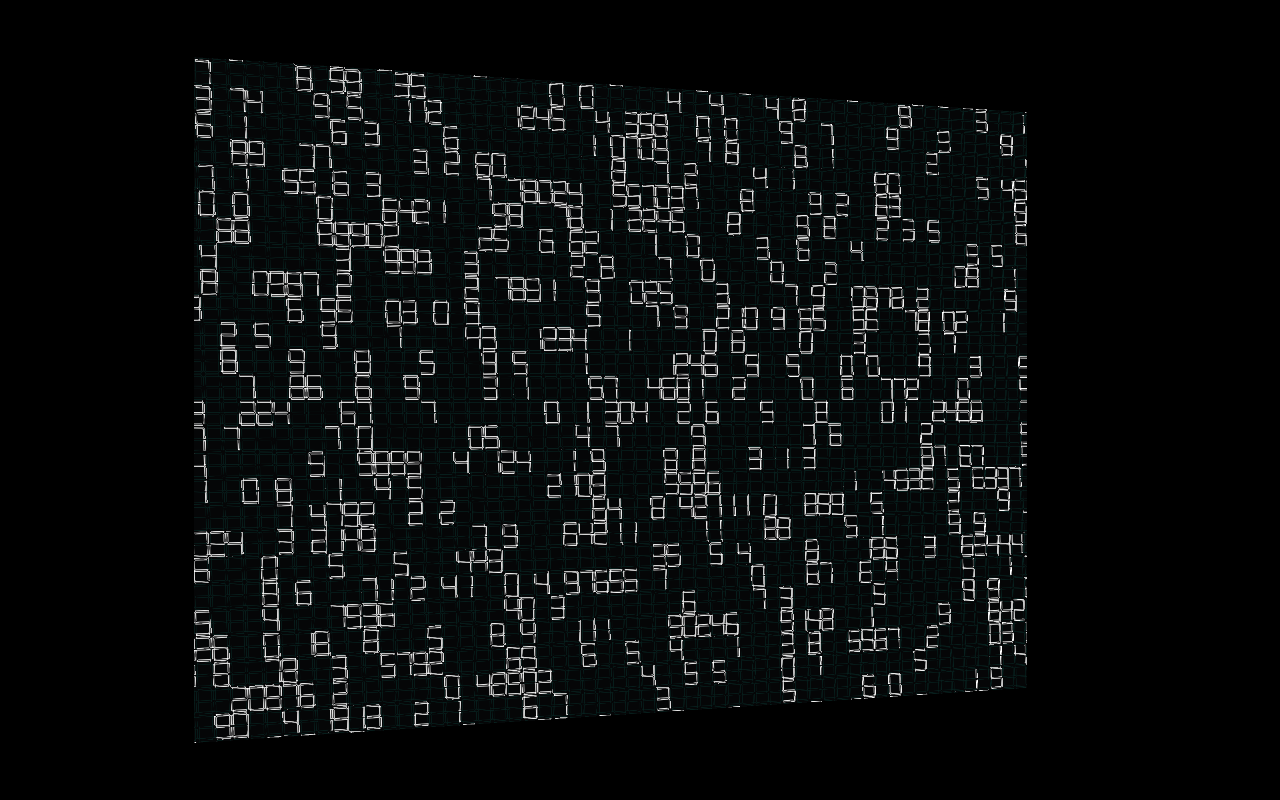
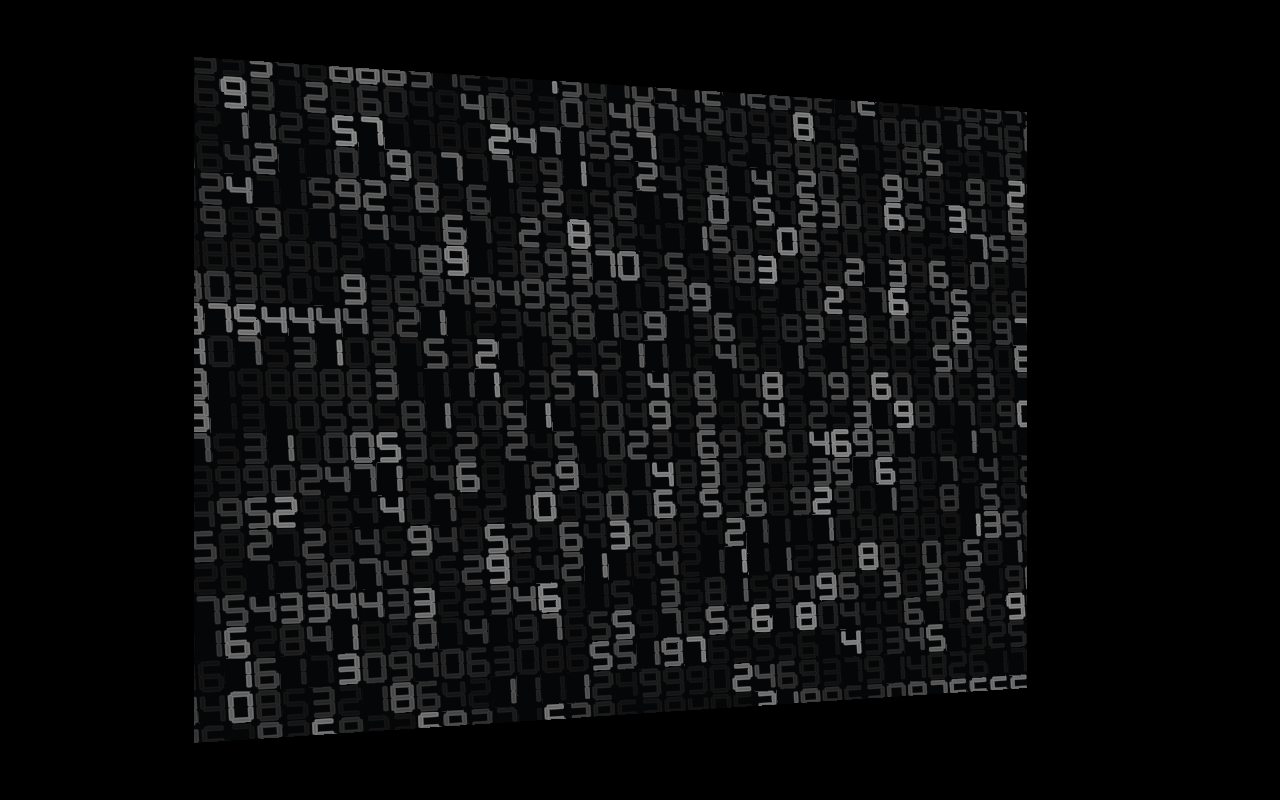
Correct the digit grid against measurements of the reference photograph
The reference image arrived after phase 0 was built, and four of the PRD's prose
claims about it do not survive measurement. reference/MEASUREMENTS.md records the
numbers and the method.

- Cell aspect is 1:1.22, not 1:1.6. The PRD's figure comes from reading the
  strongest vertical autocorrelation peak, at 31 px, as the row pitch; it is
  actually the segment a to segment d self-match inside one glyph. The real
  pitch is 37 px by 45 px, recovered from the first-ring peaks of the 2D
  autocorrelation and confirmed by overlaying the lattice on a 5x4 cell crop.
- There are no ghost 8s. Only 0.2% of cells are empty, so every cell holds an
  ordinary digit and the faint ones are just dim. Density goes 0.35 -> 1.0 and
  ghost intensity defaults to 0, the code kept behind the parameter.
- Segments are solid bars, not outlined strokes. A luminance cut across a glyph
  reads bright, then 18 px of near-black, then bright, and a cut along a
  horizontal segment is flat-topped.
- Depth softening would move away from the reference, not towards it: edge
  sharpness is flat at 0.19 across all four brightness quartiles.

Two fixes to the glyph construction itself. Segment bars now run to the centre
lines they meet, so the union reads as one continuous ribbon; stopping them
tangent left a notch once the ends were rounded. And the glyph fill fractions are
outer extents, as measured, so the half-thickness comes off both half-extents.
[…]

Changed region(s): [[0.125, 0.0625, 0.8125, 0.9375]]

diff --git a/src/ui/gui.ts b/src/ui/gui.ts
@@ -17,7 +17,8 @@ export function createGui(params: Params, hooks: GuiHooks): Pane {
   const grid = pane.addFolder({ title: 'Digit grid' });
   grid.addBinding(params, 'gridScale', { label: 'grid scale', min: 2, max: 80, step: 0.5 });
   grid.addBinding(params, 'cellAspect', { label: 'cell aspect', min: 1, max: 2.5, step: 0.01 });
-  grid.addBinding(params, 'glyphFill', { label: 'glyph fill', min: 0.5, max: 1, step: 0.01 });
+  grid.addBinding(params, 'glyphFillX', { label: 'glyph fill X', min: 0.4, max: 1, step: 0.01 });
+  grid.addBinding(params, 'glyphFillY', { label: 'glyph fill Y', min: 0.4, max: 1, step: 0.01 });
   grid.addBinding(params, 'density', { label: 'lit density', min: 0, max: 1, step: 0.01 });
   grid.addBinding(params, 'skew', { label: 'skew', min: -0.2, max: 0.2, step: 0.005 });
   grid.addBinding(params, 'warpAmount', { label: 'warp', min: 0, max: 0.05, step: 0.001 });
@@ -25,11 +26,14 @@ export function createGui(params: Params, hooks: GuiHooks): Pane {
   grid.addBinding(params, 'digitSpeed', { label: 'digit speed', min: 0, max: 4, step: 0.05 });
 
   const glyph = pane.addFolder({ title: 'Segments' });
-  glyph.addBinding(params, 'segThickness', { label: 'thickness', min: 0.01, max: 0.15, step: 0.002 });
-  glyph.addBinding(params, 'strokeWidth', { label: 'stroke width', min: 0.002, max: 0.05, step: 0.001 });
-  glyph.addBinding(params, 'segGap', { label: 'mitre gap', min: 0, max: 0.06, step: 0.002 });
-  glyph.addBinding(params, 'segRounding', { label: 'rounding', min: 0, max: 0.05, step: 0.002 });
-  glyph.addBinding(params, 'innerFill', { label: 'inner fill', min: 0, max: 0.4, step: 0.005 });
+  glyph.addBinding(params, 'segThickness', { label: 'thickness', min: 0.05, max: 0.4, step: 0.005 });
+  glyph.addBinding(params, 'segGap', { label: 'mitre gap', min: 0, max: 1, step: 0.02 });
+  glyph.addBinding(params, 'segRounding', { label: 'rounding', min: 0, max: 1, step: 0.02 });
+  glyph.addBinding(params, 'rimWidth', { label: 'rim width', min: 0, max: 1.5, step: 0.05 });
+  glyph.addBinding(params, 'rimIntensity', { label: 'rim boost', min: 0, max: 2, step: 0.05 });
+  glyph.addBinding(params, 'cellLevelMin', { label: 'cell level min', min: 0, max: 1, step: 0.01 });
+  glyph.addBinding(params, 'cellLevelMax', { label: 'cell level max', min: 0, max: 1, step: 0.01 });
+  glyph.addBinding(params, 'cellLevelBias', { label: 'cell level bias', min: 0.5, max: 5, step: 0.1 });
   glyph.addBinding(params, 'ghostIntensity', { label: 'ghost', min: 0, max: 0.5, step: 0.005 });
   glyph.addBinding(params, 'ghostColor', { label: 'ghost colour' });
   glyph.addBinding(params, 'mediumColor', { label: 'medium' });

diff --git a/src/material/ObsidianDigitsMaterial.ts b/src/material/ObsidianDigitsMaterial.ts
@@ -18,18 +18,22 @@ export class ObsidianDigitsMaterial extends THREE.ShaderMaterial {
         uTilt: { value: new THREE.Vector2() },
         uViewMode: { value: 0 },
 
-        uGridScale: { value: 22 },
-        uCellAspect: { value: 1.6 },
-        uGlyphFill: { value: 0.88 },
-        uDensity: { value: 0.35 },
-        uGhostIntensity: { value: 0.06 },
-        uGhostColor: { value: new THREE.Color('#0d3d3a') },
-        uStrokeWidth: { value: 0.012 },
-        uSegThickness: { value: 0.05 },
-        uSegGap: { value: 0.012 },
-        uSegRounding: { value: 0.02 },
-        uInnerFill: { value: 0.06 },
-        uSkew: { value: 0.03 },
+        uGridScale: { value: 13.5 },
+        uCellAspect: { value: 1.22 },
+        uGlyphFillX: { value: 0.89 },
+        uGlyphFillY: { value: 0.96 },
+        uDensity: { value: 1 },
+        uGhostIntensity: { value: 0 },
+        uGhostColor: { value: new THREE.Color('#12514b') },
+        uSegThickness: { value: 0.22 },
+        uSegGap: { value: 0 },
+        uSegRounding: { value: 0.7 },
+        uRimWidth: { value: 0.55 },
+        uRimIntensity: { value: 0.5 },
+        uCellLevelMin: { value: 0.08 },
+        uCellLevelMax: { value: 0.58 },
+        uCellLevelBias: { value: 2.6 },
+        uSkew: { value: 0.054 },
         uWarpAmount: { value: 0.004 },
         uWarpScale: { value: 0.6 },
         uDigitSpeed: { value: 0 },
@@ -47,15 +51,19 @@ export class ObsidianDigitsMaterial extends THREE.ShaderMaterial {
 
     u.uGridScale.value = params.gridScale;
     u.uCellAspect.value = params.cellAspect;
-    u.uGlyphFill.value = params.glyphFill;
+    u.uGlyphFillX.value = params.glyphFillX;
+    u.uGlyphFillY.value = params.glyphFillY;
     u.uDensity.value = params.density;
     u.uGhostIntensity.value = params.ghostIntensity;
     (u.uGhostColor.value as THREE.Color).set(params.ghostColor);
-    u.uStrokeWidth.value = params.strokeWidth;
     u.uSegThickness.value = params.segThickness;
     u.uSegGap.value = params.segGap;
     u.uSegRounding.value = params.segRounding;
-    u.uInnerFill.value = params.innerFill;
+    u.uRimWidth.value = params.rimWidth;
+    u.uRimIntensity.value = params.rimIntensity;
+    u.uCellLevelMin.value = params.cellLevelMin;
+    u.uCellLevelMax.value = params.cellLevelMax;
+    u.uCellLevelBias.value = params.cellLevelBias;
     u.uSkew.value = params.skew;
     u.uWarpAmount.value = params.warpAmount;
     u.uWarpScale.value = params.warpScale;

diff --git a/src/params.ts b/src/params.ts
@@ -19,18 +19,22 @@ export type TiltSourceName = 'auto' | 'gyro' | 'pointer' | 'auto-drift';
 export interface Params {
   viewMode: ViewModeName;
 
-  // Digit grid
+  // Digit grid. Defaults come from reference/MEASUREMENTS.md.
   gridScale: number;
   cellAspect: number;
-  glyphFill: number;
+  glyphFillX: number;
+  glyphFillY: number;
   density: number;
   ghostIntensity: number;
   ghostColor: string;
-  strokeWidth: number;
   segThickness: number;
   segGap: number;
   segRounding: number;
-  innerFill: number;
+  rimWidth: number;
+  rimIntensity: number;
+  cellLevelMin: number;
+  cellLevelMax: number;
+  cellLevelBias: number;
   skew: number;
   warpAmount: number;
   warpScale: number;
@@ -51,18 +55,22 @@ export interface Params {
 export const DEFAULT_PARAMS: Params = {
   viewMode: 'final',
 
-  gridScale: 22,
-  cellAspect: 1.6,
-  glyphFill: 0.88,
-  density: 0.35,
-  ghostIntensity: 0.16,
+  gridScale: 13.5,   // about 35 cells across the slab, as the reference shows
+  cellAspect: 1.22,  // row pitch 45 px over column pitch 37 px
+  glyphFillX: 0.89,
+  glyphFillY: 0.96,
+  density: 1.0,      // every cell carries a digit
+  ghostIntensity: 0, // the reference has no unlit ghost glyphs
   ghostColor: '#12514b',
-  strokeWidth: 0.012,
-  segThickness: 0.05,
-  segGap: 0.012,
-  segRounding: 0.02,
-  innerFill: 0.06,
-  skew: 0.03,
+  segThickness: 0.22, // fraction of glyph width
+  segGap: 0,          // segments join continuously
+  segRounding: 0.7,   // fraction of segment half-thickness; 1 = capsule ends
+  rimWidth: 0.55,
+  rimIntensity: 0.5,
+  cellLevelMin: 0.08, // per-cell brightness in display terms, fitted to the
+  cellLevelMax: 0.58, // reference's stroke-luminance distribution
+  cellLevelBias: 2.6,
+  skew: 0.054,
   warpAmount: 0.004,
   warpScale: 0.6,
   digitSpeed: 0,

diff --git a/reference/MEASUREMENTS.md b/reference/MEASUREMENTS.md
@@ -1,0 +1,102 @@
+# Measured properties of `reference.png`
+
+Everything below was measured from the image, not estimated by eye. The image is
+1282 x 1992 px, a macro crop with no object silhouette in frame.
+
+## Lattice
+
+Recovered from the first-ring peaks of the 2D autocorrelation of a 1024 px
+interior block, then confirmed by overlaying the lattice on a 5 x 4 cell crop.
+
+| Quantity | Value |
+| --- | --- |
+| Column pitch | 37 px |
+| Row pitch | 45 px |
+| Cell aspect (height : width) | **1.22** |
+| Row skew | 2 px rise per 37 px, about **3.1 deg** |
+| Cells across the frame | about 35 x 44 |
+
+The strongest autocorrelation peak is at a 31 px vertical lag, which is the
+segment a to segment d self-match inside one glyph, not the row pitch. Reading
+it as the pitch is what makes the cell look far taller than it is.
+
+## Glyph
+
+Bounding boxes of bright connected components, upper quartile in both axes, over
+three luminance thresholds (n = 10 to 37 per threshold; the three agree to 3%).
+
+| Quantity | Value |
+| --- | --- |
+| Glyph size | 33 x 43 px |
+| Glyph aspect (height : width) | 1.31 |
+| Fill of its cell | 0.89 wide, 0.96 tall |
+| Segment thickness | 7 to 9 px, so **0.21 to 0.27 of glyph width** |
+
+Segments are **solid filled bars**, not hollow outlines. A luminance cut across a
+glyph reads bright, then about 18 px of near-black, then bright: two solid
+strokes with the glyph interior between them. A cut along a horizontal segment is
+flat-topped across its whole width.
+
+Segments **join continuously** with heavy corner rounding. There is no mitre gap
+between neighbouring segments.
+
+## Occupancy
+
+Sampled 1200 cells on the recovered lattice.
+
+| Peak luminance below | Share of cells |
+| --- | --- |
+| 30 / 255 | 0.2 % |
+| 45 / 255 | 1.9 % |
+| 60 / 255 | 10.3 % |
+| 80 / 255 | 28.3 % |
+
+Effectively **every cell carries a digit**. Cells differ in brightness, not in
+whether they are occupied. There is no separate population of unlit "ghost 8"
+glyphs: the faint cells hold ordinary varied digits.
+
+## Depth
+
+Normalised edge sharpness, as peak luminance gradient over peak luminance,
+by per-cell brightness quartile:
+
+| Quartile | Mean peak | Sharpness |
+| --- | --- | --- |
+| Q1 dimmest | 61 | 0.197 |
+| Q2 | 89 | 0.186 |
+| Q3 | 116 | 0.191 |
+| Q4 brightest | 146 | 0.197 |
+
+Sharpness is flat. **Dim cells are not blurrier than bright ones**, so the
+brightness variation is diffraction intensity, not depth-of-field. The
+autocorrelation also shows only one lattice, with no second offset copy.
+
+## Colour
+
+Hue distribution of stroke pixels, the brightest 20% of the image:
+
+| Band | Share |
+| --- | --- |
+| green, 100-150 deg | 19.9 % |
+| spring and teal, 150-175 deg | 22.7 % |
+| cyan, 175-195 deg | 12.5 % |
+| azure, 195-225 deg | 18.9 % |
+| blue, 225-255 deg | 13.2 % |
+| violet through pink, 255-345 deg | 9.1 % |
+| yellow through red, 345-100 deg | 3.7 % |
+
+Saturation is **moderate, median 0.42**, and flat across brightness. These are
+not neon strokes.
+
+Hue tracks brightness, which is the useful constraint for the diffraction model:
+
+| Brightness quintile | Mean luminance | Green and teal | Cyan and blue | Warm |
+| --- | --- | --- | --- | --- |
+| dimmest | 0.17 | 32 % | 64 % | 2 % |
+| 2 | 0.20 | 36 % | 59 % | 3 % |
+| 3 | 0.23 | 42 % | 52 % | 4 % |
+| 4 | 0.30 | 49 % | 43 % | 5 % |
+| brightest | 0.44 | 50 % | 33 % | 11 % |
+
+Dim digits are blue, bright digits are green, and warm hues appear only in the
+brightest cells.

diff --git a/README.md b/README.md
@@ -12,12 +12,35 @@ The full specification is in [the PRD](PRD-obsidian-opal-digits-shader_1.md).
 
 | Phase | Scope | State |
 | --- | --- | --- |
-| 0 | Scaffold, procedural seven-segment digits, ghost segments, GUI, debug views | done |
+| 0 | Scaffold, procedural seven-segment digits, GUI, debug views | done, matched to the reference |
 | 1 | Diffraction, spectrum, world-fixed lights, full gyro tilt input | not started |
 | 2 | Parallax layers, refraction, absorption, depth softening | not started |
 | 3 | Fresnel, procedural studio reflections, surface waviness, bloom, tone mapping | not started |
 | 4 | Quality tiers, presets, digit animation, auto-drift idle state | not started |
 | 5 | Arbitrary mesh (stretch) | not started |
+
+## The PRD's description of the reference is wrong in four places
+
+Section 2 of the PRD describes the reference photograph in prose. Four of those
+claims do not survive measurement. `reference/MEASUREMENTS.md` has the numbers
+and the method; the implementation follows the measurements.
+
+| PRD section 2 says | The image shows |
+| --- | --- |
+| Cells about 1 : 1.6, taller than wide | 1 : 1.22. Column pitch 37 px, row pitch 45 px |
+| Unlit segments visible as dark teal ghost 8s, "essential to the look" | No ghost glyphs at all. Every cell holds an ordinary digit; 0.2% of cells are empty |
+| Lit segments are outlined strokes, not flat fills | Solid bars, 0.23 of glyph width, joined with no mitre gap |
+| Deeper digits are dimmer **and softer** | Edge sharpness is flat across brightness quartiles, so the variation is diffraction intensity, not depth |
+
+The cell aspect error comes from reading the strongest vertical autocorrelation
+peak, at 31 px, as the row pitch. It is the segment a to segment d self-match
+inside one glyph.
+
+Two further corrections are matters of degree rather than fact. The palette is
+much bluer than "mostly green/teal with scattered magenta, blue, yellow and
+pink" suggests: green through blue is 87% of stroke pixels and yellow is 0.6%.
+And hue tracks brightness, dim cells reading blue and bright cells green, which
+is a useful constraint on the diffraction model in phase 1.
 
 ## Run it
 

diff --git a/reference/README.md b/reference/README.md
@@ -1,7 +1,10 @@
 # Reference imagery
 
-The PRD calls for `reference/IMG_9471.jpeg`, the photograph the material is
-modelled on. It was not included with the PRD, so it is missing here.
+`reference.png` (1282 x 1992) is the photograph the material is modelled on. The
+PRD calls it `IMG_9471.jpeg`; it is the same image under a different name.
 
-Drop it in as `IMG_9471.jpeg` before judging phases 1 through 3, which are the
-ones whose acceptance criteria compare captured output against it.
+`MEASUREMENTS.md` records what was measured from it: lattice pitch, glyph
+proportions, segment thickness, cell occupancy, depth cues and the colour
+distribution. Several of those measurements contradict the PRD's prose
+description of the same photograph. Where they disagree, the measurement wins,
+and the PRD itself says to treat the image as the thing to encode.
